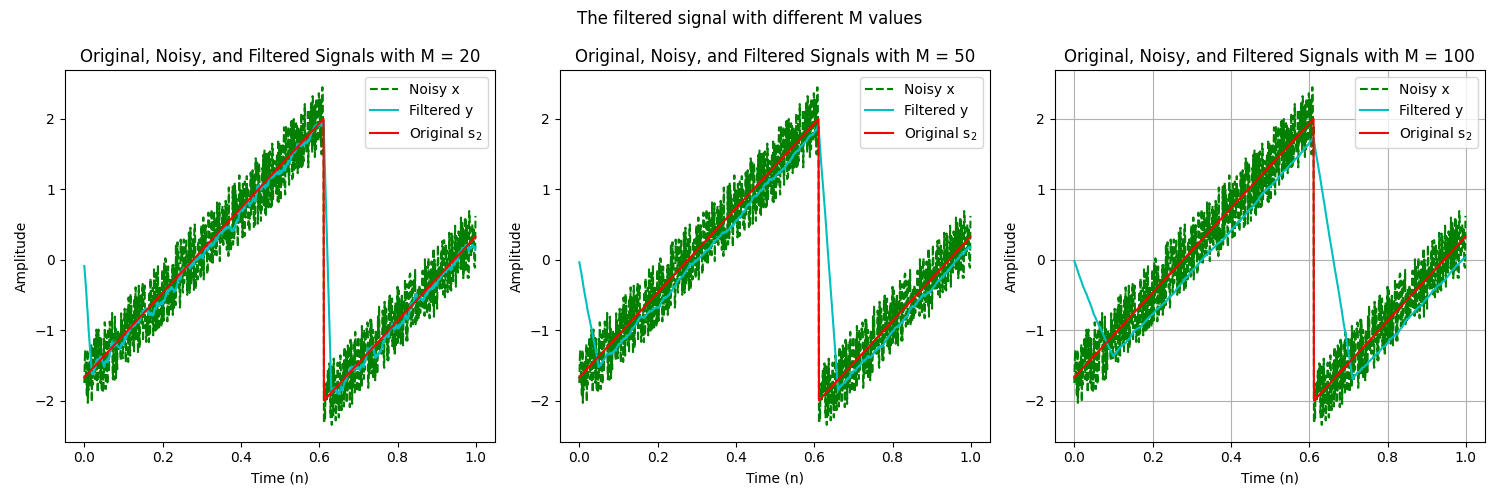
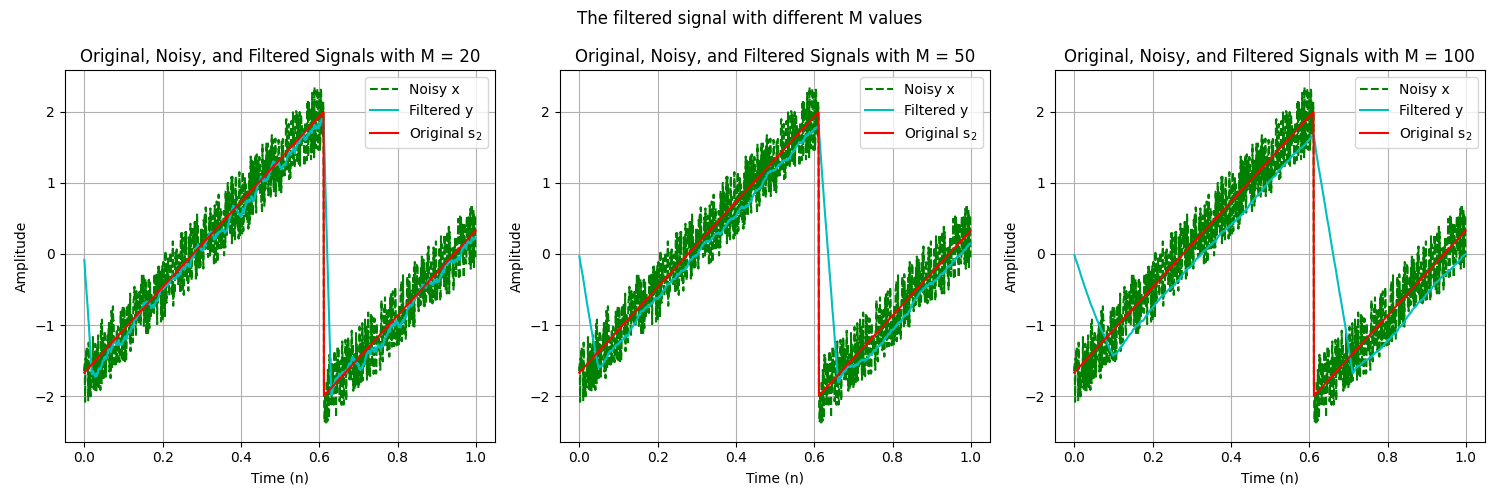
chore: change plot 1.5-1.6; add grid to all

diff --git a/lab1/task2.py b/lab1/task2.py
@@ -63,6 +63,7 @@ def noiseFilter(moreM=False, s2=False):
             axs[i].set_title(f'Original, Noisy, and Filtered Signals with M = {M_val}')
             axs[i].set_xlabel('Time (n)')
             axs[i].set_ylabel('Amplitude')
+            axs[i].grid(True)
             axs[i].legend()
 
         plt.suptitle('The filtered signal with different M values')

diff --git a/lab1/main.py b/lab1/main.py
@@ -29,9 +29,9 @@ plt.show()
 
 # Plotting the digital filter 1.5-1.6
 plt.figure(figsize=(10, 8))
-plt.subplot(1, 2, 1)
+plt.subplot(2, 1, 1)
 digitalFilter(Ts1, t1, x1)
-plt.subplot(1, 2, 2)
+plt.subplot(2, 1, 2)
 digitalFilter(Ts2, t2, x2)
 plt.tight_layout()
 plt.savefig('./plots/1.5-1.6.png')
